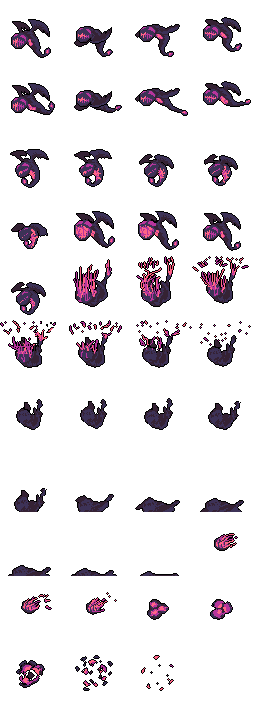
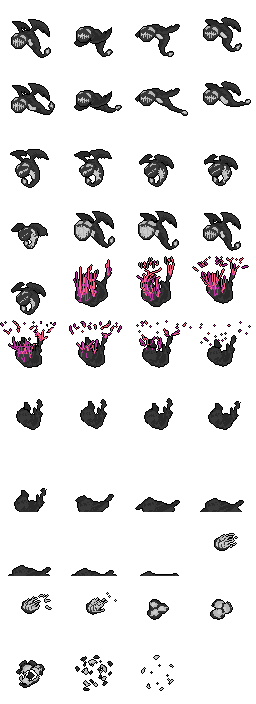
Player reskin, floater, splitter recolor

diff --git a/src/impl/Entity/PlayerCharacters/Player/Player.cs b/src/impl/Entity/PlayerCharacters/Player/Player.cs
@@ -12,7 +12,7 @@ public class Player : GameObject
     public static PackedScene SceneObject = (PackedScene)GD.Load("res://scenes/Entity/Player.tscn");
 
     public Player() :
-        base(new PlayerInputController(), new SmoothCollidePhysicsController(), new BasicGraphicsController())
+        base(new PlayerInputController(), new SmoothCollidePhysicsController(), new PlayerGraphicsController())
     {
         baseStats = new StatsInfo { MaxHealth = 2000, MaxShield = 0, Damage = 100, Speed = 200 };
         health = Stats.MaxHealth;

diff --git a/src/impl/Entity/PlayerCharacters/Player/PlayerGraphicsController.cs b/src/impl/Entity/PlayerCharacters/Player/PlayerGraphicsController.cs
@@ -1,0 +1,16 @@
+using Godot;
+
+public class PlayerGraphicsController : BasicGraphicsController
+{
+    public override void Update(Node2D node)
+    {
+        base.Update(node);
+
+        AnimatedSprite animSprite = node.GetNode<AnimatedSprite>("AnimatedSprite");
+
+        Vector2 vector = node.GetGlobalMousePosition() - node.GlobalPosition;
+        animSprite.FlipH = vector.x > 0;
+        animSprite.Animation = "walk";
+        animSprite.Playing = true;
+    }
+}

diff --git a/src/impl/Entity/BasicGraphicsController.cs b/src/impl/Entity/BasicGraphicsController.cs
@@ -14,7 +14,7 @@ public class BasicGraphicsController : GraphicsController
         }
 
         bool moving = gameObject.velocity.Length() > 0.0001;
-        bool goingRight = gameObject.velocity.x > 0 || (!moving && animSprite.FlipH);
+        bool goingRight = (gameObject.velocity.x > 0) || (!moving && animSprite.FlipH);
         animSprite.FlipH = goingRight;
 
         int frame = animSprite.Frame;

diff --git a/src/impl/Weapons/ShooterWeapon/ShooterBullet.cs b/src/impl/Weapons/ShooterWeapon/ShooterBullet.cs
@@ -3,4 +3,9 @@ using Godot;
 public class ShooterBullet : SimpleBullet
 {
     public static new PackedScene SceneObject = (PackedScene)GD.Load("res://scenes/weapons/projectiles/ShooterBullet.tscn");
+
+    public ShooterBullet()
+    {
+        baseStats = new StatsInfo { MaxHealth = 0, MaxShield = 0, Damage = 0, Speed = 300 };
+    }
 }
